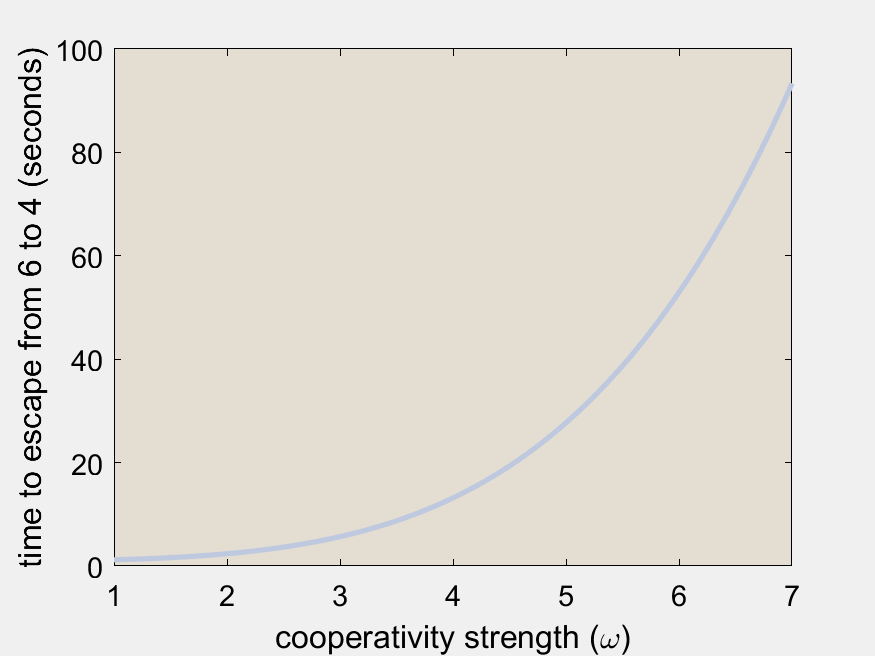
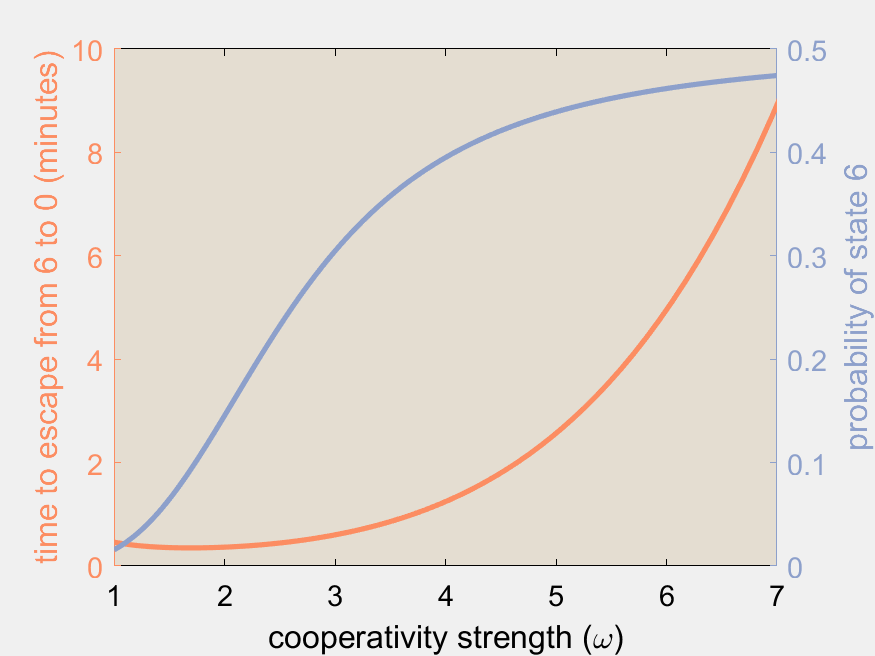
Ongoing work on Figure 3 scripts

diff --git a/src/passage_time_figures.m b/src/passage_time_figures.m
@@ -6,6 +6,11 @@ addpath('utilities')
 
 % load numeric results
 n_bcd_sites = 6;
+n_states = n_bcd_sites+1;
+n_bound_vec = 0:n_bcd_sites;
+n_calc_points = 201;
+off_rate_basal = 1/2; % in seconds. This sets overall system timescales (from Mir et al, 2018)
+
 project = ['n' num2str(n_bcd_sites)];
 addpath('utilities')
 
@@ -14,37 +19,94 @@ FigurePath = ['../fig/emergent_bursting/' project '/'];
 mkdir(FigurePath)
 DataPath = ['../out/emergent_bursting/' project '/'];
 
-% load data
-load([DataPath 'bursting_sim_struct.mat'])
-load([DataPath 'bursting_chain_calc_struct.mat'])
-coop_index = 2;
+%% calculate transition matrices and state probabilities from scratch
+mult_vec = NaN(size(n_bound_vec));
+for w = 1:length(mult_vec)
+  mult_vec(w) = factorial(n_bcd_sites) ./ (factorial(n_bcd_sites-n_bound_vec(w)) .*factorial(n_bound_vec(w)));
+end
+mu_vec = -log(mult_vec); % energy contribution from state multiplicities
+
+coopEnergies = -linspace(0,1.9,201); 
+activatorEnergyVec = repelem(4.75,n_calc_points); % fix to value used for coop plot %-0.5*coopEnergies*(n_bcd_sites-1);
+
+stateEnergy_fun = @(eb,ec) eb*n_bound_vec + ec*n_bound_vec.*(n_bound_vec-1)/2 + mu_vec;
+stateProb_fun = @(eb,ec) exp(-stateEnergy_fun(eb,ec)) / sum(exp(-stateEnergy_fun(eb,ec)));
+
+% for each energy landscape, we can calculate the implied on rate for a 
+% single Bcd molecule (absent cooperative effects) unsing known koff and
+% detailed balance
+on_rate_basal_vec = NaN(1,n_calc_points); 
+
+% initialize 3D array to store transition rate (generator) matrices for each
+% condition
+Q_coop_on_array = zeros(n_states,n_states,n_calc_points); % on rate-mediated
+
+P_coop_array = NaN(n_states,n_calc_points);
+% define matrices used for indexing
+a = ones(n_states); m1 = tril(a,-1); m2 = tril(a,-2); m3 = triu(a,1); m4 = triu(a,2); m5 = ~~eye(n_states);
+
+% calculate metrics for (a) and (b) first
+for ec = 1:length(activatorEnergyVec)  
+  eBind = activatorEnergyVec(ec);
+  eCoop = coopEnergies(ec);
+  
+  % state probabilities
+  state_probs_coop = stateProb_fun(eBind,eCoop);    
+  P_coop_array(:,ec) = state_probs_coop;
+  % calculate basal on rate using detailed balance  
+  on_rate_basal_vec(ec) = off_rate_basal * state_probs_coop(2) / state_probs_coop(1) / n_bcd_sites;
+  % calculate implied rates
+  rate_coop_on_temp(:,1) = off_rate_basal * n_bound_vec;
+  rate_coop_on_temp(1:end-1,2) = rate_coop_on_temp(2:end,1)' .* state_probs_coop(2:end) ./ state_probs_coop(1:end-1);
+
+  % generator matrix 
+  c_on_slice = zeros(n_states);
+  c_on_slice(m1&~m2) = rate_coop_on_temp(1:end-1,2);
+  c_on_slice(m3&~m4) = rate_coop_on_temp(2:end,1);
+  c_on_slice(m5) = -sum(c_on_slice);
+  Q_coop_on_array(:,:,ec) = c_on_slice';
+
+end
+
+
+%% Generate figures 
 % define colors
 blue = [190 201 224]/255;
 pboc = [228,221,209]/255;
-% extract cooperativity value vector
-ec_vec = bursting_chain_calc_struct(coop_index).coopEnergies;
-omega_vec = exp(-ec_vec);
-ec_filter = ec_vec <=0; % select for only synergistic interactions
 
-% calculate amount of time neaded to go from 6 to 4 as a function of
-% cooperativity strength
-Q_coop_on_array = bursting_chain_calc_struct(coop_index).Q;
+% extract cooperativity value vector
+omega_vec = exp(-coopEnergies);
 
 % initialize arrays 
 eff_64_coop_vec = NaN(1,size(Q_coop_on_array,3));
-calc_vec = [4 6];
+eff_63_coop_vec = NaN(1,size(Q_coop_on_array,3));
+eff_02_coop_vec = NaN(1,size(Q_coop_on_array,3));
+calc_vec = [1 n_states];
 
-for eb = 1:length(ec_vec)     
-  [~, eff_64_coop_vec(eb)] = pt_solve(Q_coop_on_array(:,:,eb),calc_vec(1),calc_vec(2)); 
+for ec = 1:length(coopEnergies)     
+  [~, eff_64_coop_vec(ec)] = pt_solve(Q_coop_on_array(:,:,ec),calc_vec(1),calc_vec(2)); 
+%   [~, eff_63_coop_vec(ec)] = pt_solve(Q_coop_on_array(:,:,ec),calc_vec(1)-1,calc_vec(2)); 
+%   [~, eff_64_coop_vec(ec)] = pt_solve(Q_coop_on_array(:,:,ec),calc_vec(1),calc_vec(2)); 
 end
 
 
 et64_fig = figure;
+cmap = brewermap([],'Set2');
 hold on
 
-plot(omega_vec(ec_filter),eff_64_coop_vec(ec_filter),'-','Color',blue,'LineWidth',2.5)
+yyaxis left
+% plot(omega_vec,eff_64_coop_vec,'-','Color',cmap(2,:),'LineWidth',2.5)
+plot(omega_vec,eff_64_coop_vec,'-','Color',cmap(2,:),'LineWidth',2.5)
+set(gca,'Yscale','log')
+ylabel('passage time from 6 to 0 (seconds)')
+ax = gca;
+ax.YColor = cmap(2,:);
 
-ylabel('time to escape from 6 to 4 (seconds)')
+yyaxis right
+plot(omega_vec,P_coop_array(end,:),'-','Color',cmap(3,:),'LineWidth',2.5)
+ylabel('probability of state 6')
+ax = gca;
+ax.YColor = cmap(3,:);
 % ylim(ylimTrace)
 xlim([1 7])
 xlabel('cooperativity strength (\omega)')
@@ -52,8 +114,9 @@ box on
 set(gca,'Fontsize',14)
 % set(gca,'Yscale','log')
 ax = gca;
-ax.YColor = 'black';
+
 ax.XColor = 'black';
+% legend('
 ax.Color = pboc;
 % StandardFigurePBoC(p,gca);
 et64_fig.InvertHardcopy = 'off';

diff --git a/src/passage_time_figures_orig.m b/src/passage_time_figures_orig.m
@@ -1,0 +1,77 @@
+% script to simulate burst time series with parameters from numerical and
+% analytic results
+clear
+close all
+addpath('utilities')
+
+% load numeric results
+n_bcd_sites = 6;
+n_states = n_bcd_sites+1;
+n_bound_vec = 0:n_bcd_sites;
+n_calc_points = 201;
+off_rate_basal = 1/2; % in seconds. This sets overall system timescales (from Mir et al, 2018)
+
+project = ['n' num2str(n_bcd_sites)];
+addpath('utilities')
+
+% set paths
+FigurePath = ['../fig/emergent_bursting/' project '/'];
+mkdir(FigurePath)
+DataPath = ['../out/emergent_bursting/' project '/'];
+
+% load data
+load([DataPath 'bursting_sim_struct.mat'])
+load([DataPath 'bursting_chain_calc_struct.mat'])
+coop_index = 2;
+% define colors
+blue = [190 201 224]/255;
+pboc = [228,221,209]/255;
+% extract cooperativity value vector
+ec_vec = bursting_chain_calc_struct(coop_index).coopEnergies;
+omega_vec = exp(-ec_vec);
+ec_filter = ec_vec <=0; % select for only synergistic interactions
+
+% calculate amount of time neaded to go from 6 to 4 as a function of
+% cooperativity strength
+Q_coop_on_array = bursting_chain_calc_struct(coop_index).Q;
+
+% initialize arrays 
+eff_64_coop_vec = NaN(1,size(Q_coop_on_array,3));
+calc_vec = [1 n_states];
+
+for ec = 1:length(ec_vec)     
+  [~, eff_64_coop_vec(ec)] = pt_solve(Q_coop_on_array(:,:,ec),calc_vec(1),calc_vec(2)); 
+end
+
+
+et64_fig = figure;
+cmap = brewermap([],'Set2');
+hold on
+
+yyaxis left
+plot(omega_vec(ec_filter),eff_64_coop_vec(ec_filter)/60,'-','Color',cmap(2,:),'LineWidth',2.5)
+ylabel('time to escape from 6 to 0 (minutes)')
+ax = gca;
+ax.YColor = cmap(2,:);
+
+yyaxis right
+plot(omega_vec(ec_filter),bursting_chain_calc_struct(coop_index).SS(7,ec_filter),'-','Color',...
+  cmap(3,:),'LineWidth',2.5)
+ylabel('probability of state 6')
+ax = gca;
+ax.YColor = cmap(3,:);
+% ylim(ylimTrace)
+xlim([1 7])
+xlabel('cooperativity strength (\omega)')
+box on
+set(gca,'Fontsize',14)
+% set(gca,'Yscale','log')
+ax = gca;
+
+ax.XColor = 'black';
+% legend('
+ax.Color = pboc;
+% StandardFigurePBoC(p,gca);
+et64_fig.InvertHardcopy = 'off';
+saveas(et64_fig,[FigurePath 'et64_vs_omega.png'])
+saveas(et64_fig,[FigurePath 'et64_vs_omega.pdf'])
